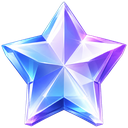
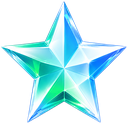
강화 별 이미지 교체 + 청록 계열 그라데이션 (#65)
* Show today's total study time at bottom of study timer tab

Displays a large, live-updating total (including the in-progress
session) below the timer and subject cards, reusing the existing
per-date study-second aggregation.

* Switch study reward cadence to 1-minute blocks, scale rewards to 1/10

Reward blocks now tick every minute instead of every 10 minutes, with
base and per-level bonus amounts scaled down proportionally so the
overall earn rate stays the same. Also replace the coin emoji with a
CSS-drawn gold coin icon so it renders consistently everywhere.

* Turn off gold coin sparkle animation

Keeps the static gold coin look and glow, just drops the pulsing
rotate/scale animation.

* Turn off gold coin sparkle animation

Keeps the static gold coin look and glow, just drops the pulsing
rotate/scale animation.

* Change main tab history from 14 days to 7 days, show daily study time

Each day cell in the history grid now also shows that day's total
study time (e.g. "2시간 5분"), alongside the existing completion
percent.

* Rebuild realm ladder to follow Nanomachine's cultivation ranks

경지 now follows the novel 나노마신's classification: 삼류무사/이류무사/
일류무사, then 절정/초절정/화경/현경/생사경/자연경/공허경/여의경, each
split into 초입/완숙/극 (27 levels total, up from 24). Prices and study
bonuses were recomputed with the same accelerating-difficulty curve,
anchored to the existing 이류무사=100,000 price.

Each of the 9 realm groups gets its own themed color treatment (steel
[…]

diff --git a/css/style.css b/css/style.css
@@ -2406,20 +2406,20 @@ body {
   filter: grayscale(1) opacity(0.35);
 }
 /* Each star position has its own fixed color — reaching that star just
-   fills it in with its own designated shade. All 10 stay in the same
-   teal/cyan family (hue-rotate 300deg) and only get gradually more
+   fills it in with its own designated shade. All 10 keep the star image's
+   own native blue/teal/green (no hue shift) and only get gradually more
    saturated and brighter as the row climbs, rather than the whole set
    recoloring together or jumping between hue families. */
-.enhance-star.filled.star-pos-1  { filter: hue-rotate(300deg) saturate(1)    brightness(1.08) drop-shadow(0 0 5px rgba(255, 255, 255, 0.5)); }
-.enhance-star.filled.star-pos-2  { filter: hue-rotate(300deg) saturate(1.16) brightness(1.08) drop-shadow(0 0 5px rgba(255, 255, 255, 0.52)); }
-.enhance-star.filled.star-pos-3  { filter: hue-rotate(300deg) saturate(1.31) brightness(1.1)  drop-shadow(0 0 6px rgba(255, 255, 255, 0.55)); }
-.enhance-star.filled.star-pos-4  { filter: hue-rotate(300deg) saturate(1.47) brightness(1.1)  drop-shadow(0 0 6px rgba(255, 255, 255, 0.58)); }
-.enhance-star.filled.star-pos-5  { filter: hue-rotate(300deg) saturate(1.62) brightness(1.1)  drop-shadow(0 0 7px rgba(255, 255, 255, 0.6)); }
-.enhance-star.filled.star-pos-6  { filter: hue-rotate(300deg) saturate(1.78) brightness(1.12) drop-shadow(0 0 7px rgba(255, 255, 255, 0.62)); }
-.enhance-star.filled.star-pos-7  { filter: hue-rotate(300deg) saturate(1.93) brightness(1.12) drop-shadow(0 0 8px rgba(255, 255, 255, 0.65)); }
-.enhance-star.filled.star-pos-8  { filter: hue-rotate(300deg) saturate(2.09) brightness(1.14) drop-shadow(0 0 8px rgba(255, 255, 255, 0.68)); }
-.enhance-star.filled.star-pos-9  { filter: hue-rotate(300deg) saturate(2.24) brightness(1.16) drop-shadow(0 0 9px rgba(255, 255, 255, 0.72)); }
-.enhance-star.filled.star-pos-10 { filter: hue-rotate(300deg) saturate(2.4)  brightness(1.18) drop-shadow(0 0 10px rgba(255, 255, 255, 0.78)); }
+.enhance-star.filled.star-pos-1  { filter: hue-rotate(0deg) saturate(1)    brightness(1.08) drop-shadow(0 0 5px rgba(255, 255, 255, 0.5)); }
+.enhance-star.filled.star-pos-2  { filter: hue-rotate(0deg) saturate(1.17) brightness(1.08) drop-shadow(0 0 5px rgba(255, 255, 255, 0.52)); }
+.enhance-star.filled.star-pos-3  { filter: hue-rotate(0deg) saturate(1.33) brightness(1.1)  drop-shadow(0 0 6px rgba(255, 255, 255, 0.55)); }
+.enhance-star.filled.star-pos-4  { filter: hue-rotate(0deg) saturate(1.5)  brightness(1.1)  drop-shadow(0 0 6px rgba(255, 255, 255, 0.58)); }
+.enhance-star.filled.star-pos-5  { filter: hue-rotate(0deg) saturate(1.67) brightness(1.1)  drop-shadow(0 0 7px rgba(255, 255, 255, 0.6)); }
+.enhance-star.filled.star-pos-6  { filter: hue-rotate(0deg) saturate(1.83) brightness(1.12) drop-shadow(0 0 7px rgba(255, 255, 255, 0.62)); }
+.enhance-star.filled.star-pos-7  { filter: hue-rotate(0deg) saturate(2)    brightness(1.12) drop-shadow(0 0 8px rgba(255, 255, 255, 0.65)); }
+.enhance-star.filled.star-pos-8  { filter: hue-rotate(0deg) saturate(2.17) brightness(1.14) drop-shadow(0 0 8px rgba(255, 255, 255, 0.68)); }
+.enhance-star.filled.star-pos-9  { filter: hue-rotate(0deg) saturate(2.33) brightness(1.16) drop-shadow(0 0 9px rgba(255, 255, 255, 0.72)); }
+.enhance-star.filled.star-pos-10 { filter: hue-rotate(0deg) saturate(2.5)  brightness(1.18) drop-shadow(0 0 10px rgba(255, 255, 255, 0.78)); }
 
 /* 별의 조각 currency icon — a small crystal-shard image with a soft glow. */
 .frag-icon {

diff --git a/index.html b/index.html
@@ -26,7 +26,7 @@
 <link rel="preconnect" href="https://fonts.googleapis.com">
 <link rel="preconnect" href="https://fonts.gstatic.com" crossorigin>
 <link href="https://fonts.googleapis.com/css2?family=Inter:wght@400;500;600;700;800&family=Noto+Sans+KR:wght@400;500;600;700;800&family=Noto+Serif+KR:wght@500;700;900&display=swap" rel="stylesheet">
-<link rel="stylesheet" href="css/style.css?v=20260822f">
+<link rel="stylesheet" href="css/style.css?v=20260822g">
 </head>
 <body>
 
@@ -588,6 +588,6 @@
 </template>
 
 <script src="https://cdn.jsdelivr.net/npm/@supabase/supabase-js@2/dist/umd/supabase.js"></script>
-<script src="js/app.js?v=20260822f"></script>
+<script src="js/app.js?v=20260822g"></script>
 </body>
 </html>
